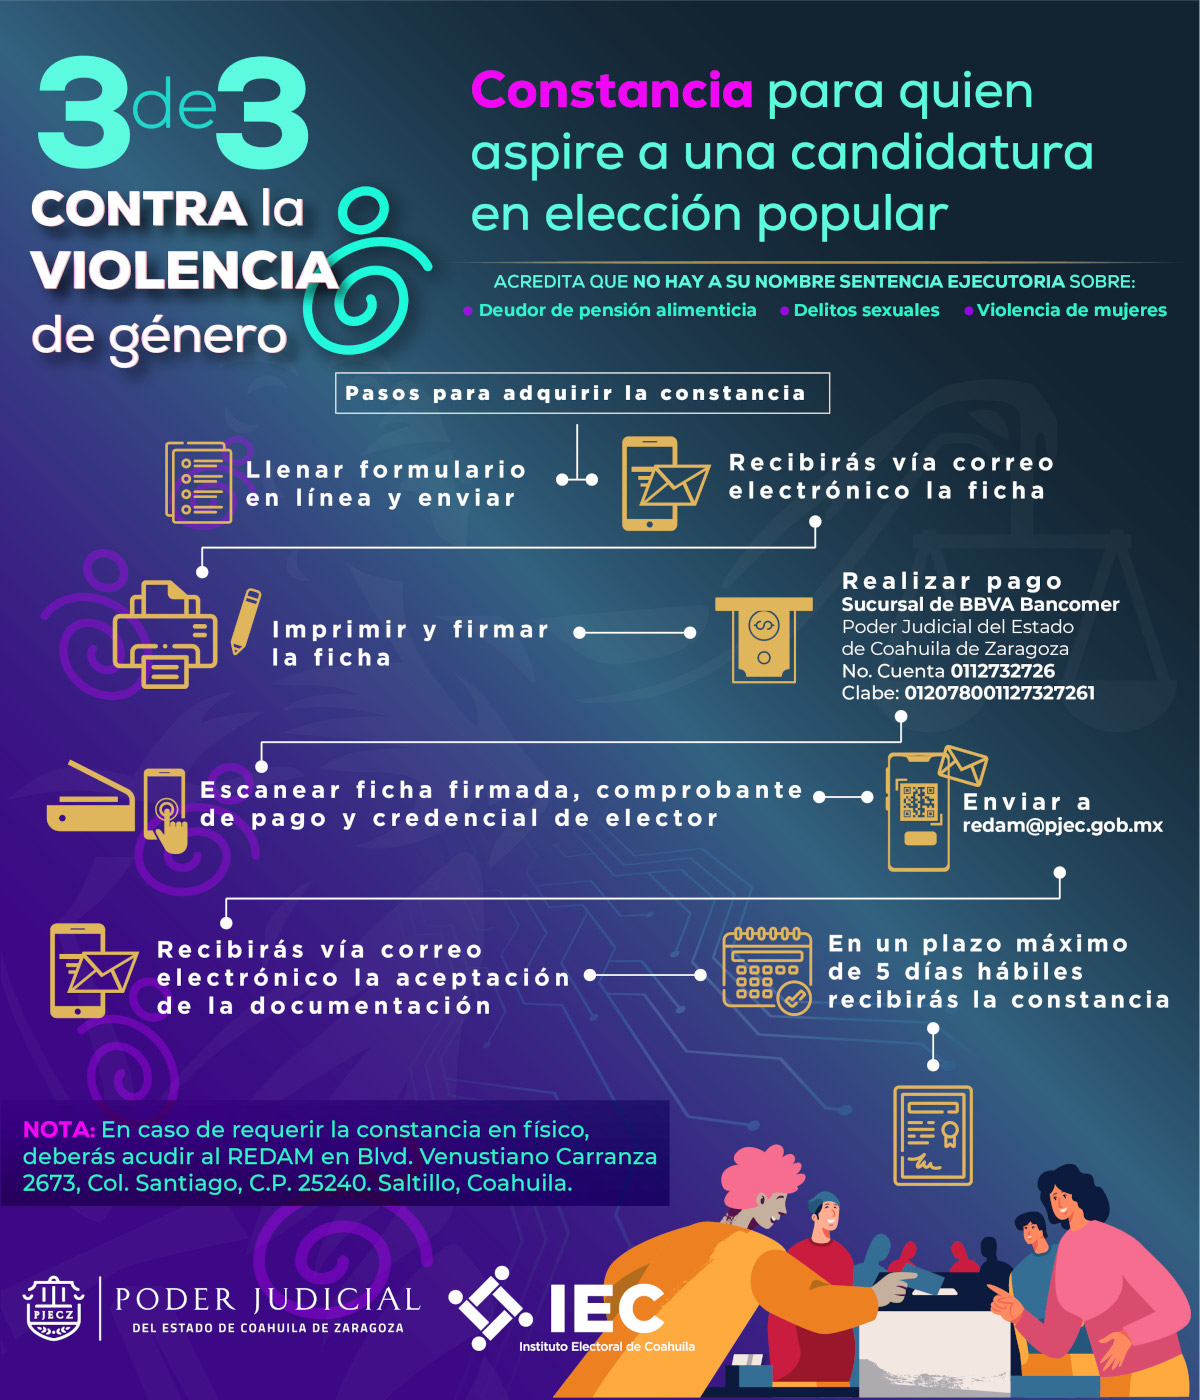
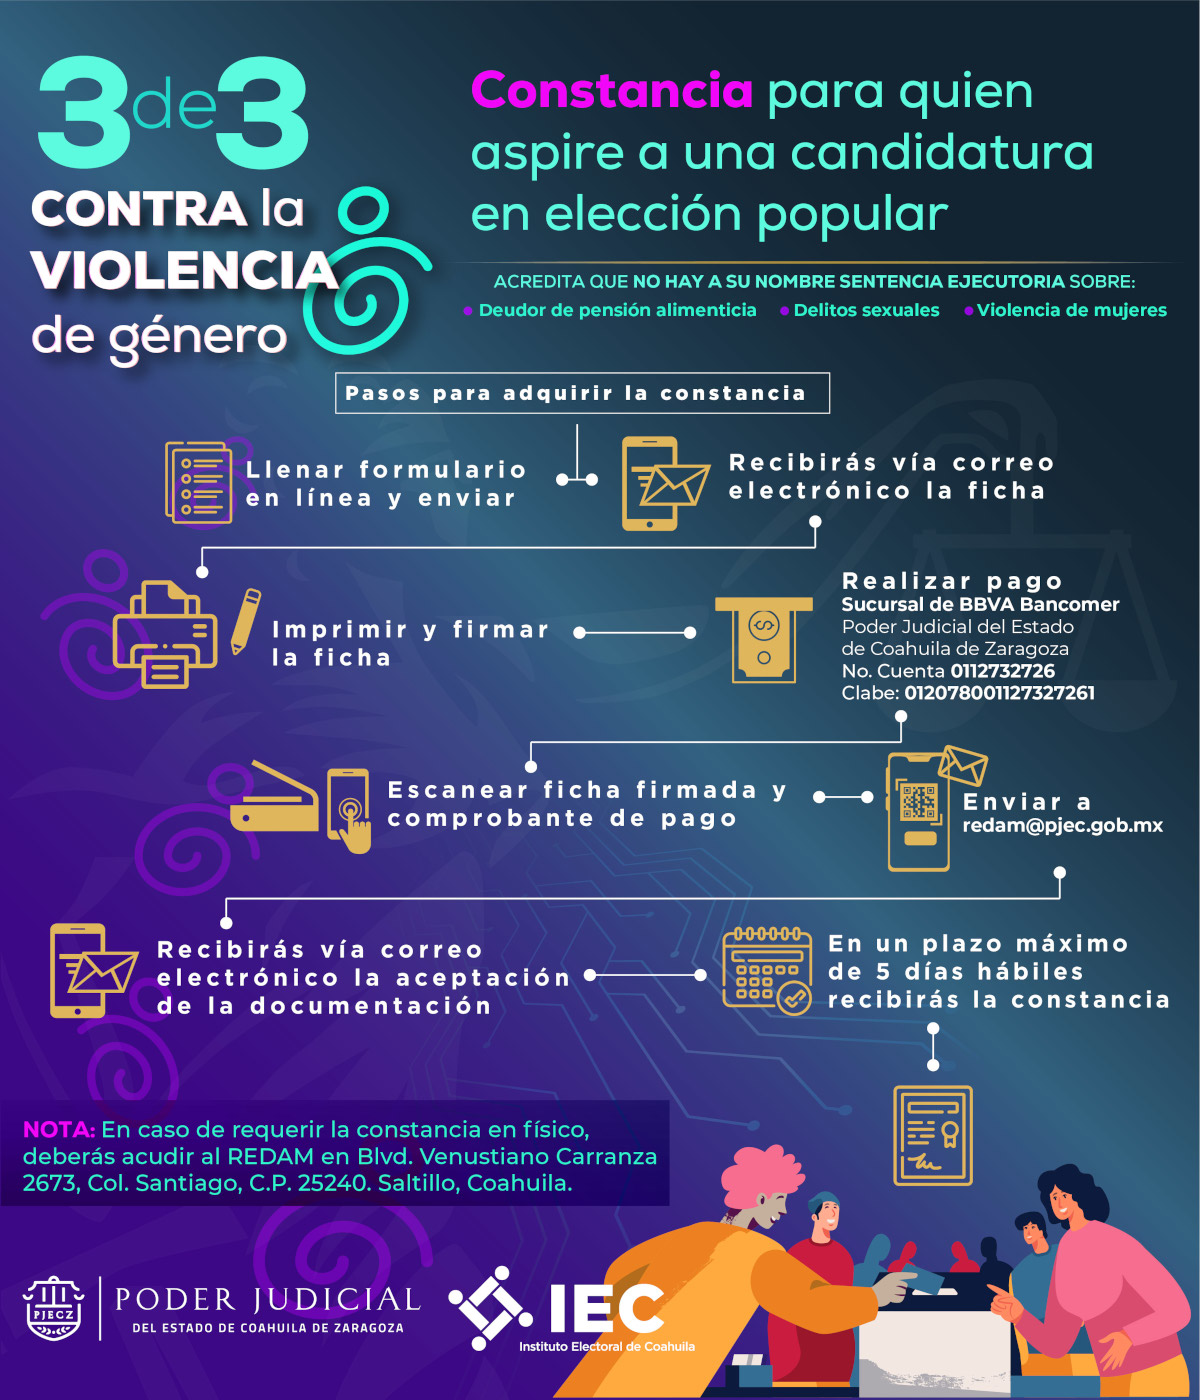
Actualización Trámites y Servicios.

Changed region(s): [[0.0308, 0.5221, 0.6783, 0.6143]]

diff --git a/tramites-y-servicios/17-constancia-3-de-3-contra-la-violencia-de-genero/index.html b/tramites-y-servicios/17-constancia-3-de-3-contra-la-violencia-de-genero/index.html
@@ -229,34 +229,41 @@
 <thead>
 <tr>
 <th>Constancia para quien aspire a una candidatura en elección popular</th>
-<th align="right"></th>
+<th></th>
 </tr>
 </thead>
 <tbody>
 <tr>
 <td><strong>Responsable:</strong></td>
-<td align="right">Secretaría Técnica y de Transparencia</td>
+<td>Secretaría Técnica y de Transparencia</td>
 </tr>
 <tr>
 <td><strong>Total a pagar:</strong></td>
-<td align="right">$133.53</td>
+<td>$133.53</td>
 </tr>
 <tr>
 <td><strong>Tiempo máximo de entrega:</strong></td>
-<td align="right">5 días</td>
+<td>5 días</td>
+</tr>
+<tr>
+<td><strong>Requisitos previos:</strong></td>
+<td>Tenga a la mano sus datos personales (CURP, Domicilio y Teléfono)</td>
+</tr>
+<tr>
+<td></td>
+<td>Archivo con la Identificación oficial: Credencial de Elector frente y vuelta o Pasaporte. En color y a buena resolución como archivo PDF o JPG.</td>
+</tr>
+<tr>
+<td></td>
+<td>Debe de tener una cuenta de correo electrónico registrada en Google, de preferencia <a href="https://mail.google.com">GMail</a>.</td>
 </tr>
 </tbody>
 </table>
 <h4>Procedimiento del trámite o servicio</h4>
 <h2>Infografía</h2>
 <p><img class="img-fluid" src="3-de-3-infografia.jpg" alt="Constancia 3 de 3"></p>
-<h2>Pasos para el Formulario en Línea</h2>
-<ol>
-<li>Tenga a la mano sus datos personales (CURP, Domicilio y Teléfono)</li>
-<li>Archivo con la Identificación oficial: Credencial de Elector frente y vuelta o Pasaporte. En color y a buena resolución como archivo PDF o JPG.</li>
-<li>Debe de tener una cuenta de correo electrónico registrada en Google, de preferencia <a href="https://mail.google.com">GMail</a>.</li>
-<li><a href="https://docs.google.com/forms/d/e/1FAIpQLSdEWuXPhiTEZ4R9TkueN1LWzdjJl25eIY-oF2JHUqICnz_UkA/viewform?usp=sf_link">Llene este formulario en Google Forms</a></li>
-</ol>
+<h2>Formulario en línea</h2>
+<h3><a href="https://docs.google.com/forms/d/e/1FAIpQLSdEWuXPhiTEZ4R9TkueN1LWzdjJl25eIY-oF2JHUqICnz_UkA/viewform?usp=sf_link">Llene este formulario en Google Forms</a></h3>
     </div>
 </article>
     </main>
